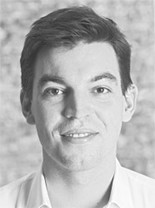
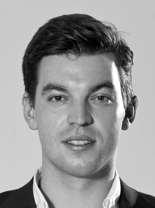
Tim's new picture

diff --git a/site/security.html b/site/security.html
@@ -37,7 +37,7 @@
         <hr class="divider divider_md divider_mrg60">
         <div class="l-center-narrow">
           <div class="member member_large">
-            <div class="member__pic"><img src="img/tim-rheder.png" alt=""></div>
+            <div class="member__pic"><img src="img/tim-rehder.jpg" alt=""></div>
             <div class="member__info">
               <blockquote class="member__quote"> <strong>„We dont gamble</strong> <br> with your money“
                 <cite class="member__cite">Tim Rheder <br> CEO of Cubits</cite>
@@ -53,14 +53,14 @@
         <div class="l-center-narrow">
           <h2 class="title"><i class="icon icon-gears"></i><b>This is German engineering</b><br><span>Berlin in-house Bitcoin development</span></h2>
           <p class="text">
-            <Cubits>is German Engineering at its best. </Cubits>
-            <We>combine uncompromised security and cutting </We>
-            <edge>technologies with ease of use to bring our </edge>
-            <customers>an unbeatable experience. Based in Berlin, </customers>
-            <our>team strives for excellence in design and technology, </our>
-            <putting>us at the forefront of Bitcoin development. </putting>
-            <We>spent over a year working with experts in the field </We>
-            <to>build the most secure setup to protect our servers </to>
+            <Cubits>is German Engineering at its best.</Cubits>
+            <We>combine uncompromised security and cutting</We>
+            <edge>technologies with ease of use to bring our</edge>
+            <customers>an unbeatable experience. Based in Berlin,</customers>
+            <our>team strives for excellence in design and technology,</our>
+            <putting>us at the forefront of Bitcoin development.</putting>
+            <We>spent over a year working with experts in the field</We>
+            <to>build the most secure setup to protect our servers</to>
             <and>your Bitcoin from unauthorized access.</and>
           </p>
         </div>
@@ -71,19 +71,19 @@
         <h2 class="title"><i class="icon icon-heart-bitcoin"></i><b>We are a team of bitcoin geeks</b><br><span>from all over europe</span></h2>
         <div class="text">
           <p>
-            We are Bitcoin experts with unbeatable understanding of Bitcoin 
-            technology and its challenges. Our team includes developers 
-            with 15 years of experience in creating web applications as 
-            well as specialists from various industries, including 
-            telecommunications, financial services, stock trading and 
-            Bitcoin development. The founders of Bitcoin Austria, the 
-            Bitcoin Foundation Ukraine and various Bitcoin meetup organizers 
-            are just a few of the dedicated Bitcoiners comprising our 
+            We are Bitcoin experts with unbeatable understanding of Bitcoin
+            technology and its challenges. Our team includes developers
+            with 15 years of experience in creating web applications as
+            well as specialists from various industries, including
+            telecommunications, financial services, stock trading and
+            Bitcoin development. The founders of Bitcoin Austria, the
+            Bitcoin Foundation Ukraine and various Bitcoin meetup organizers
+            are just a few of the dedicated Bitcoiners comprising our
             business analytics and management team.
           </p>
           <blockquote>»It took us over a year to come up with unique security approach.«</blockquote>
           <p>
-            Above all, we want to create an unbeatable service 
+            Above all, we want to create an unbeatable service
             for our customers because we value quality and usability.
           </p>
         </div>
@@ -100,15 +100,15 @@
                 <h3 class="title"><b>100% cold storage</b> <br> of user funds</h3>
                 <div class="text">
                   <p>
-                    We refuse to make compromises when it comes to security, 
-                    which is why we enforce the gold standard of Bitcoin security 
-                    and use multi-signature cold storage. Every satoshi deposited 
-                    to Cubits is placed into offline cold storage, and all funds 
-                    within the hot wallet are Cubits’ own company funds. Additionally, 
-                    we ensure that physical access to the computing facility and all 
-                    cold storage hardware is highly restricted. All seeds and data 
-                    are stored with additional encryption to ensure that in the 
-                    near-impossible event of stolen hardware, all stored Bitcoin 
+                    We refuse to make compromises when it comes to security,
+                    which is why we enforce the gold standard of Bitcoin security
+                    and use multi-signature cold storage. Every satoshi deposited
+                    to Cubits is placed into offline cold storage, and all funds
+                    within the hot wallet are Cubits’ own company funds. Additionally,
+                    we ensure that physical access to the computing facility and all
+                    cold storage hardware is highly restricted. All seeds and data
+                    are stored with additional encryption to ensure that in the
+                    near-impossible event of stolen hardware, all stored Bitcoin
                     would remain safe and inaccessible.
                     
                   </p>
@@ -125,14 +125,14 @@
                 <h3 class="title"><b>Access to cold storage</b> <br> protected by multi-signature technology</h3>
                 <div class="text">
                   <p>
-                    Our Bitcoin storage and handling setup has no single point of failure. 
-                    This means that all your funds are protected with Bitcoin multi-signature technology. 
-                    Each transfer from cold storage to the hot wallet requires the presence of at 
-                    least two management team members, who personally and individually 
+                    Our Bitcoin storage and handling setup has no single point of failure.
+                    This means that all your funds are protected with Bitcoin multi-signature technology.
+                    Each transfer from cold storage to the hot wallet requires the presence of at
+                    least two management team members, who personally and individually
                     decrypt their seeds on secure hardware and sign the transaction.
                   </p>
                   <p>
-                    We’ve carefully designed a system that makes side channel attacks on 
+                    We’ve carefully designed a system that makes side channel attacks on
                     our hard and software close to impossible, giving our cold wallet funds maximum security.
                   </p>
                 </div>
@@ -144,28 +144,28 @@
       <!--END advantages-->
       <!--BEGIN about wallet-->
       <section class="l-center-narrow">
-        <h2 class="title"><i class="icon"><img src="img/svg/logo-simple.svg" alt=""></i><b>Hot wallet </b><br><span>We keep only our own Bitcoin in it</span></h2>
+        <h2 class="title"><i class="icon"><img src="img/svg/logo-simple.svg" alt=""></i><b>Hot wallet</b><br><span>We keep only our own Bitcoin in it</span></h2>
         <div class="text">
           <p>
-            Our hot wallet is used for real-time outgoing Bitcoin operations 
-            like buying or withdrawing Bitcoin. Although the wallet is online 
+            Our hot wallet is used for real-time outgoing Bitcoin operations
+            like buying or withdrawing Bitcoin. Although the wallet is online
             at all times, the sensitive material is distributed among independent
-            hosting locations which are individually secured and monitored. 
-            Just as with the cold wallet, we also employ Bitcoin multi-signature 
-            addresses to ensure there is no single point of 
+            hosting locations which are individually secured and monitored.
+            Just as with the cold wallet, we also employ Bitcoin multi-signature
+            addresses to ensure there is no single point of
             failure that could expose these Bitcoin.
             
           </p>
           <p>
-            Even though we put great care into designing and maintaining 
-            this infrastructure, we are fully aware that by the very nature 
-            of a hot wallet, we cannot achieve the same level of security 
-            as with our cold wallet. So, we’re going to go one step further: 
-            we guarantee that the hot wallet will always contain only our own 
-            company funds, making your Bitcoin balances perfectly safe even 
-            in the event that all of  our servers are simultaneously compromised! 
-            To ensure this, all our deposit addresses are directly issued from 
-            the cold wallet so that we are always in complete control 
+            Even though we put great care into designing and maintaining
+            this infrastructure, we are fully aware that by the very nature
+            of a hot wallet, we cannot achieve the same level of security
+            as with our cold wallet. So, we’re going to go one step further:
+            we guarantee that the hot wallet will always contain only our own
+            company funds, making your Bitcoin balances perfectly safe even
+            in the event that all of  our servers are simultaneously compromised!
+            To ensure this, all our deposit addresses are directly issued from
+            the cold wallet so that we are always in complete control
             of the hot wallet balance.
           </p>
         </div>
@@ -185,7 +185,7 @@
       <!--END ask-->
       <!--BEGIN promo-->
       <section class="promo l-center-narrow">
-        <h2 class="title">It doesn't get more secure than this.  <br> <b>Give Cubits a free try.</b></h2>
+        <h2 class="title">It doesn't get more secure than this. <br> <b>Give Cubits a free try.</b></h2>
         <button type="button" class="btn btn_large btn_yellow btn_center">Create your free account</button>
       </section>
       <!--END promo-->
